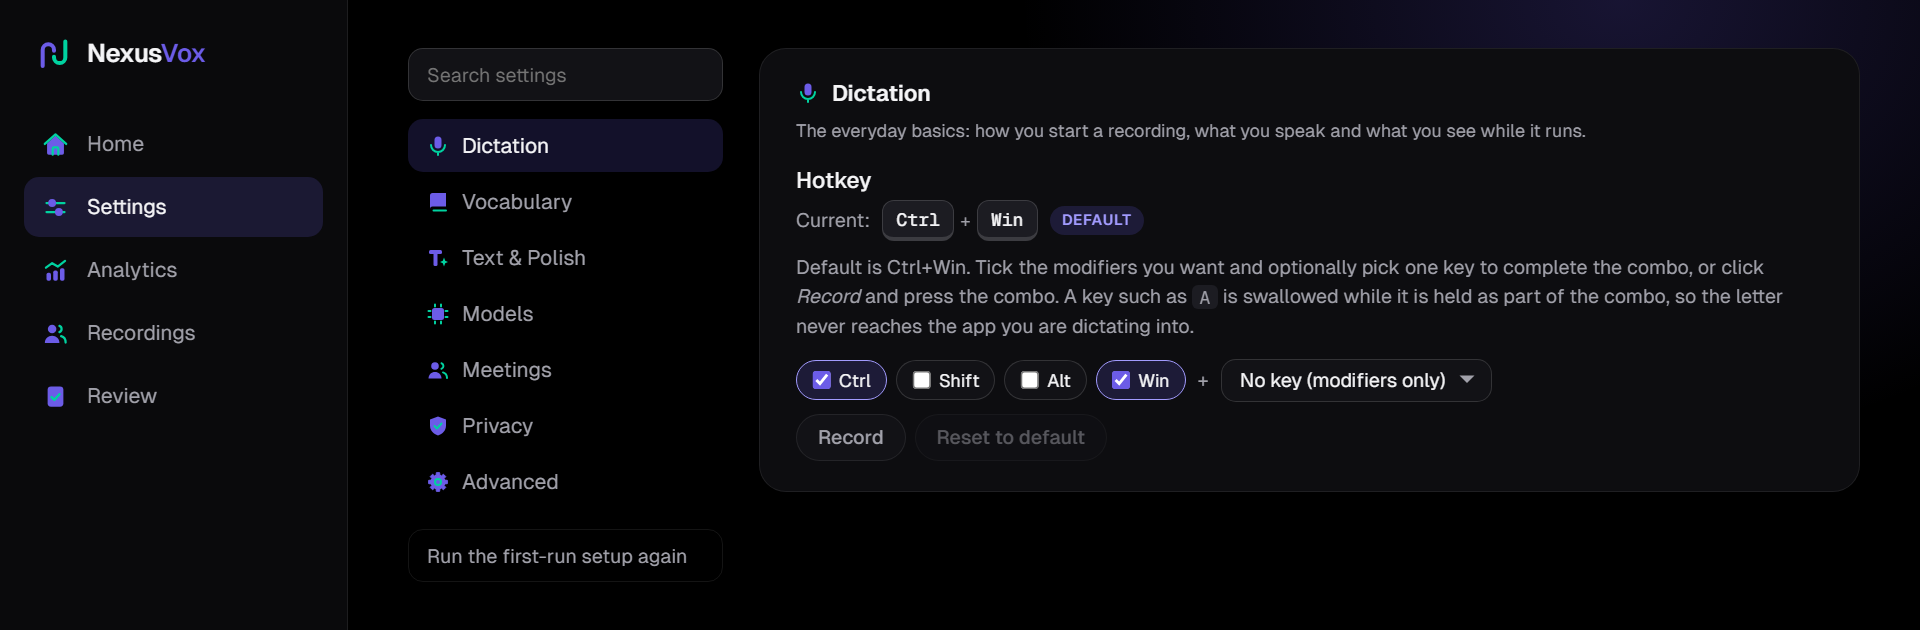
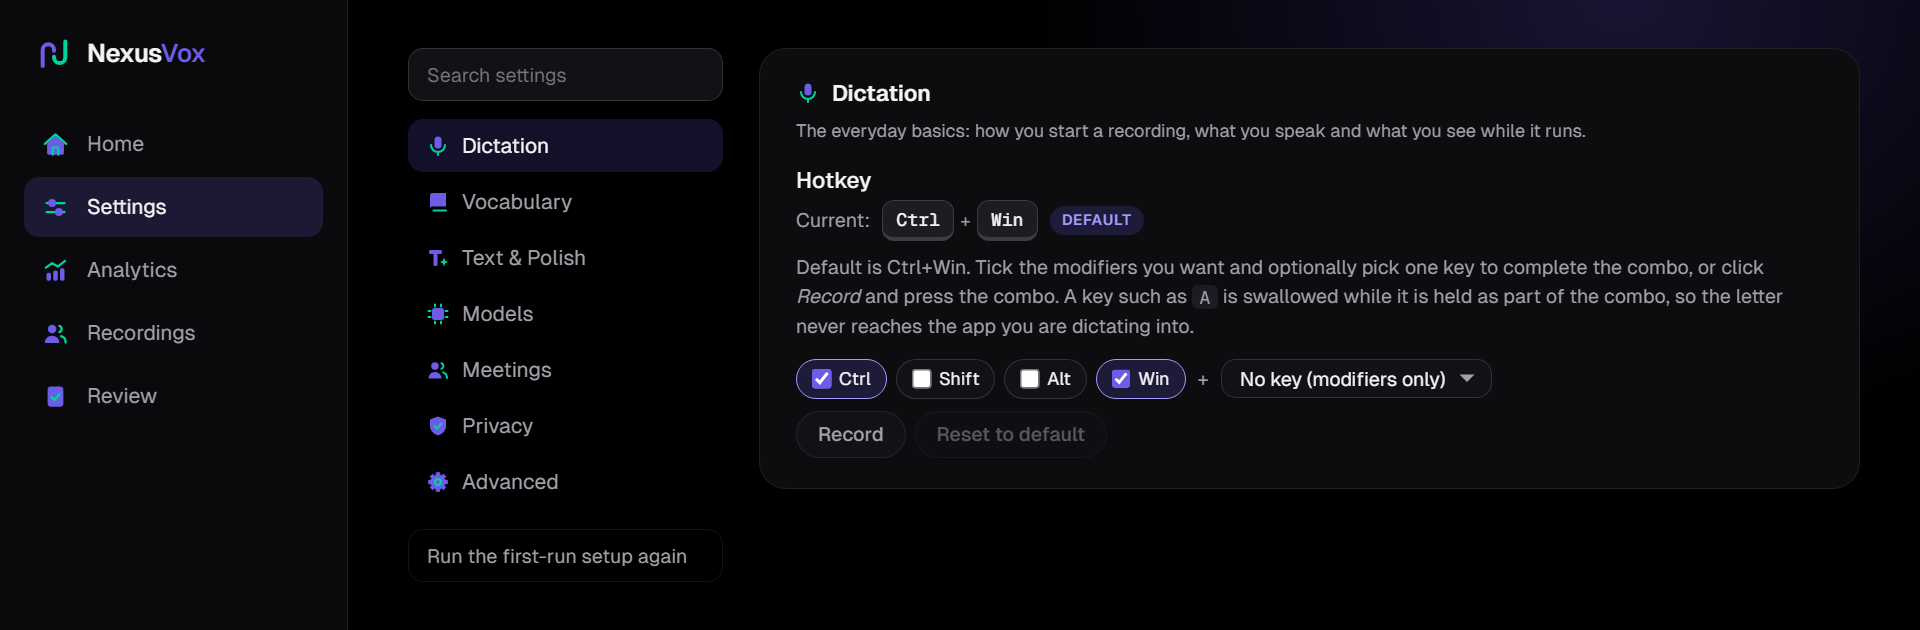
Refresh the setup screenshots and guard the wordmark colour (#373)
Closes #372

The setup and guide screenshots in docs/images were stale (mint "Vox", old
mark). The CSS already renders "Vox" in --accent, so no code fix was needed.
Regenerated dashboard-setup-*.png and guide-settings-dictation-hotkey.png with
scripts/dashboard_screenshots.py and added tests/test_dashboard_wordmark.py to
guard the wordmark colour.

diff --git a/tests/test_dashboard_wordmark.py b/tests/test_dashboard_wordmark.py
@@ -1,0 +1,22 @@
+"""The wordmark is "Nexus" in the text colour and "Vox" in the accent, on the dashboard header and the setup screen."""
+
+import re
+from pathlib import Path
+
+STATIC = Path(__file__).resolve().parent.parent / "src" / "nexusvox" / "dashboard" / "static"
+
+
+def test_setup_wordmark_uses_the_shared_vox_class():
+    html = (STATIC / "index.html").read_text(encoding="utf-8")
+    assert re.search(r'class="setup-brand-name">Nexus<span class="brand-vox">Vox</span>', html)
+    assert re.search(r"<h1>Nexus<span class=\"brand-vox\">Vox</span></h1>", html)
+
+
+def test_vox_is_the_accent_colour_and_no_rule_recolours_it():
+    css = {p.name: p.read_text(encoding="utf-8") for p in STATIC.glob("*.css")}
+    assert ".brand-vox { color: var(--accent); }" in css["style.css"]
+    assert re.search(r"--accent:\s*#6c5ce7", css["style.css"])
+    for name, text in css.items():
+        for selector in re.findall(r"([^{}]*brand-vox[^{}]*)\{", text):
+            assert name == "style.css" and selector.strip() == ".brand-vox", f"{name} restyles .brand-vox"
+        assert "setup-brand-name span" not in text
